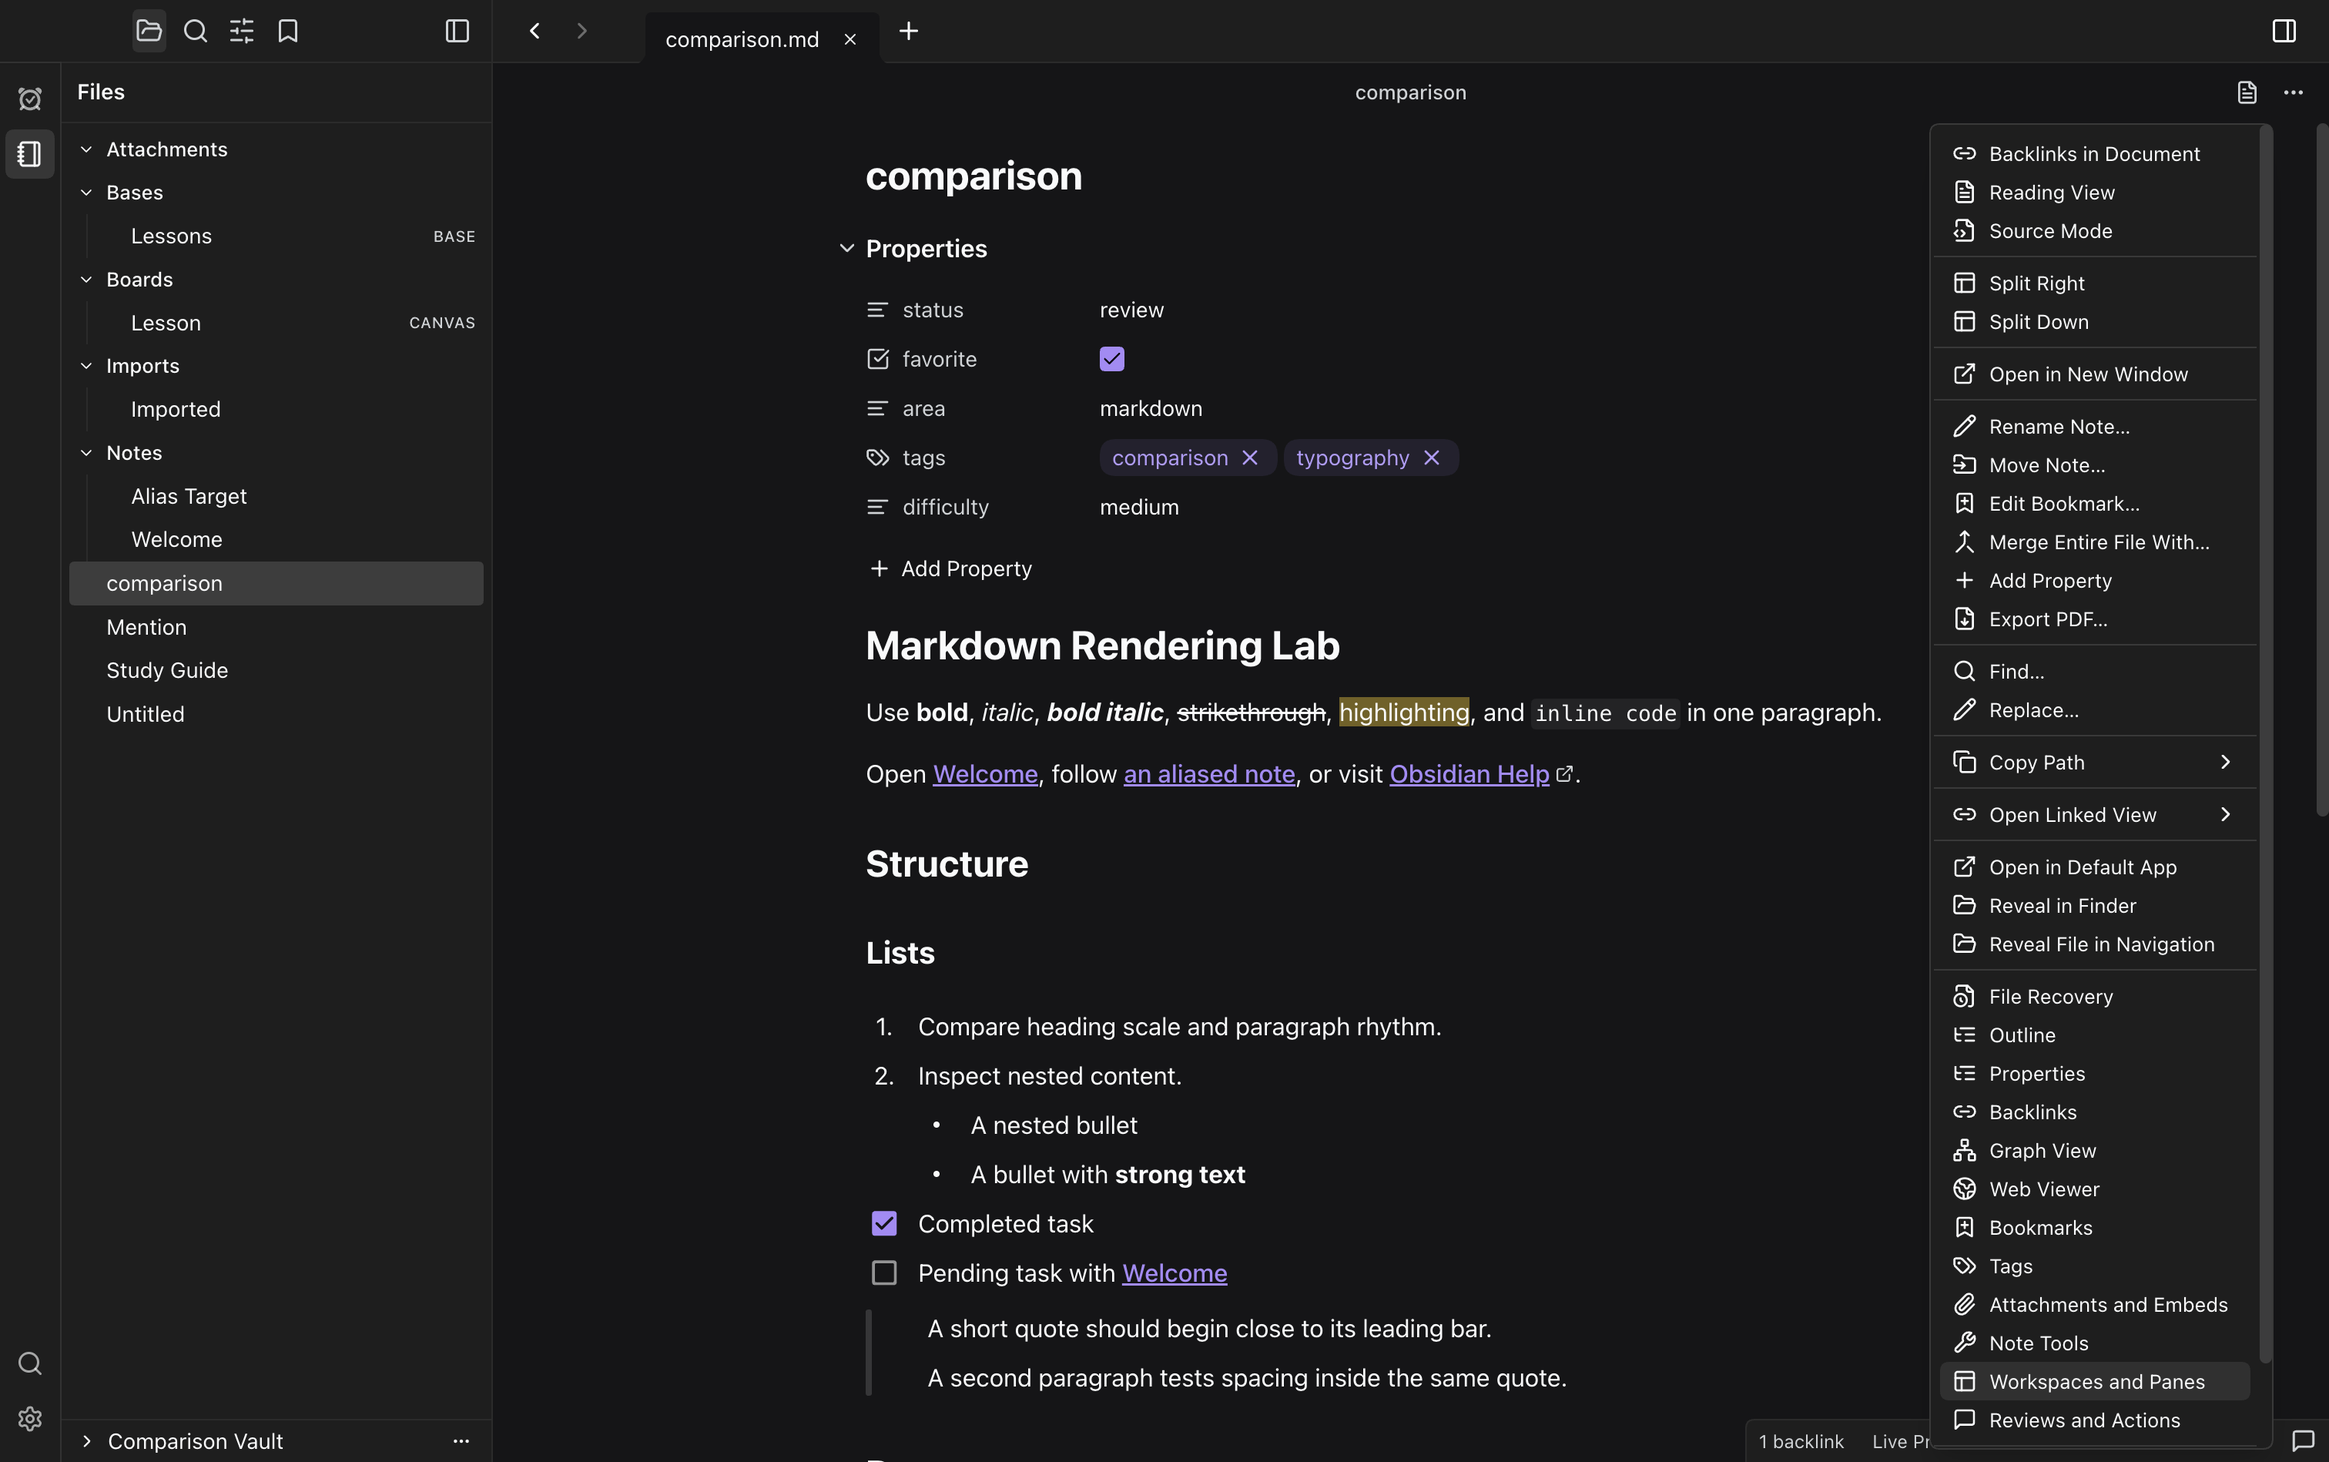
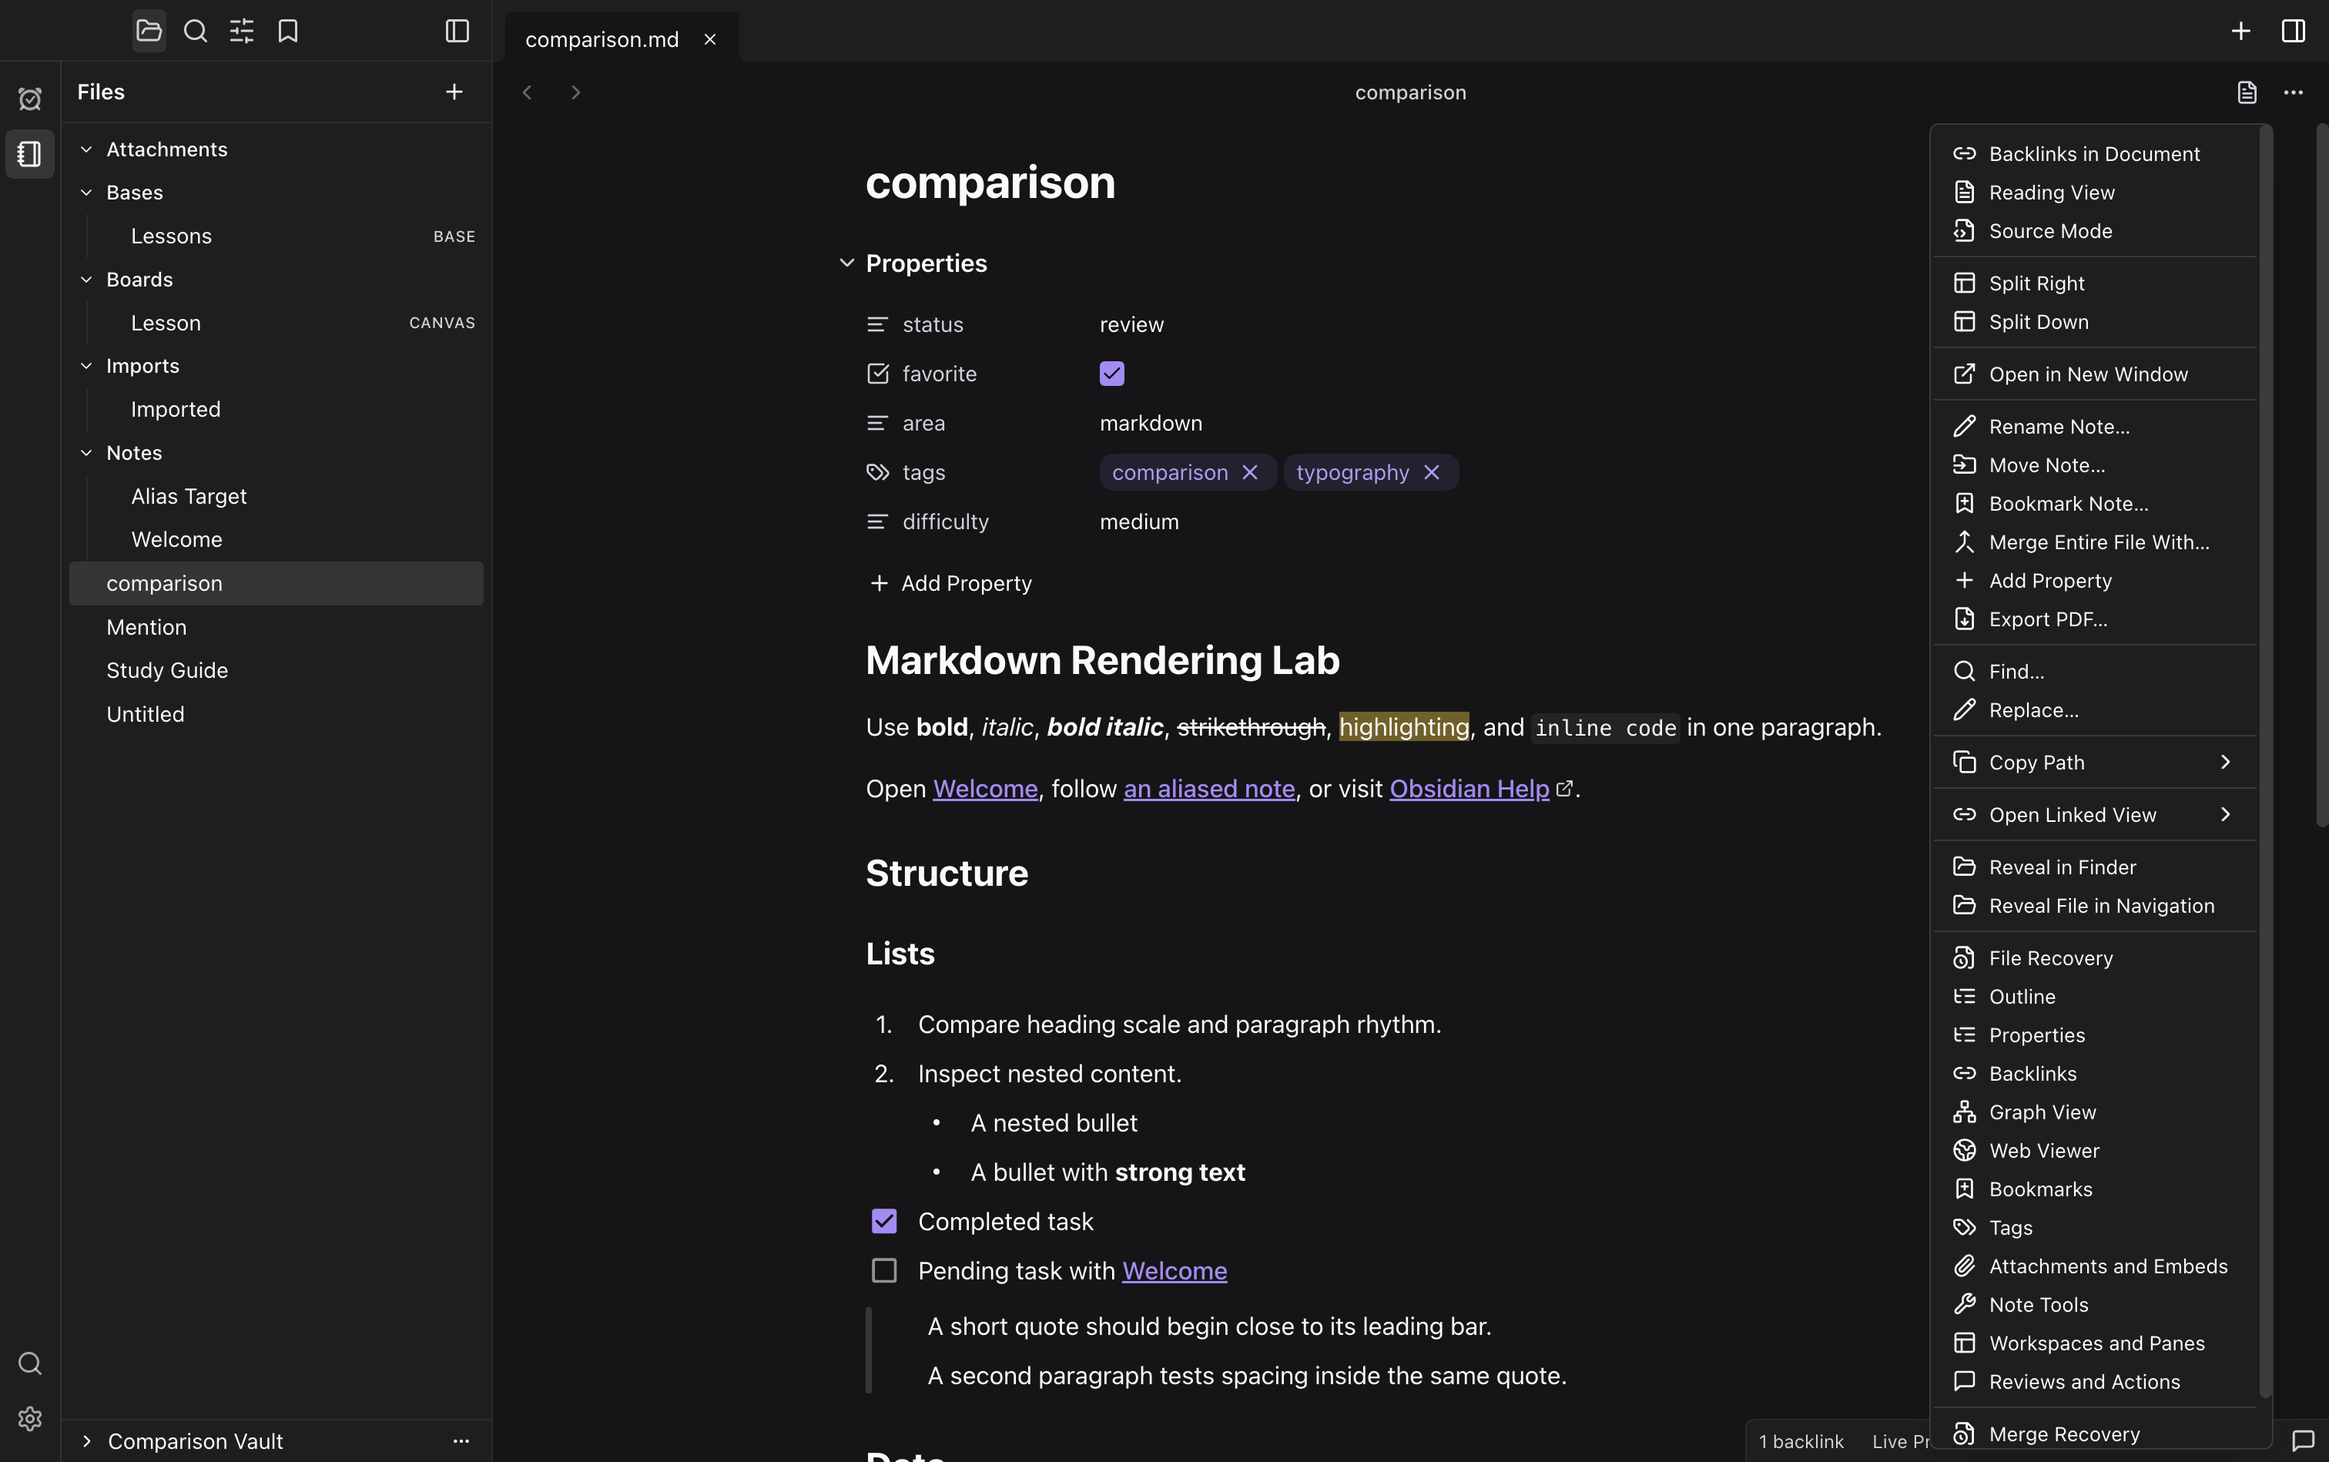
docs(tocktutor): refresh Surface 05 for the in-app note menu

diff --git a/.agents/uiux/tocktutor/tocktutor.html b/.agents/uiux/tocktutor/tocktutor.html
@@ -151,7 +151,7 @@
     <div class="header-inner">
       <p class="eyebrow">Visual Design Audit · 66 Captures</p>
       <h1>TockTutor and Obsidian</h1>
-      <p class="intro">TockTutor screenshots were refreshed from the source-built Desktop at <code>3c579a86</code> on September 24, 2026; 23 note-facing images were recaptured after the Live Preview correction at <code>81f533aa</code>; 21 Live Preview images were retaken with purple links and task checks, readable list numbers, and 16px checkbox glyphs at <code>02e96f0e</code>. The Main Workspace and Source Mode images were retaken from a source-built Desktop working tree with Back and Forward in the note header below the tabs. The new lower-note pair shows Data, Code and Notes, and Small Heading in both apps. Assistant and ordinary Web Viewer captures remain from the prior batch; the supplemental Reader View image was refreshed on October 1 with its article loaded and the corrected Live Preview paragraph visible. Earlier Obsidian 1.13.7 reference images are unchanged except for the focused Image Viewer, Image Resizing, and Imported Property Controls retakes recorded in the proof. Note-based surfaces use the shared <a href="comparison.md"><code>comparison.md</code></a> content. Older screenshots predate the filename change. The refreshed TockTutor note menu shows the current filename; attachments use <code>Notes/Welcome.md</code>, and Base and Canvas use the same <a href="../../../plugins/tocktutor/parity/fixtures/vault/">parity fixture files</a>. Search uses <code>Markdown</code> in both apps. The assistant pair uses empty conversations beside the same note, with Claudian 2.3.0 in Obsidian. Product-specific controls and catalogs remain genuine, not fabricated matches. See the <a href="content-alignment.md">capture proof and limitations</a>. Click an image for full resolution.</p>
+      <p class="intro">TockTutor screenshots were refreshed from the source-built Desktop at <code>3c579a86</code> on September 24, 2026; 23 note-facing images were recaptured after the Live Preview correction at <code>81f533aa</code>; 21 Live Preview images were retaken with purple links and task checks, readable list numbers, and 16px checkbox glyphs at <code>02e96f0e</code>. The Main Workspace and Source Mode images were retaken from a source-built Desktop working tree with Back and Forward in the note header below the tabs. The new lower-note pair shows Data, Code and Notes, and Small Heading in both apps. Assistant and ordinary Web Viewer captures remain from the prior batch; the supplemental Reader View image was refreshed on October 1 with its article loaded and the corrected Live Preview paragraph visible. Earlier Obsidian 1.13.7 reference images are unchanged except for the focused Image Viewer, Image Resizing, and Imported Property Controls retakes recorded in the proof. Note-based surfaces use the shared <a href="comparison.md"><code>comparison.md</code></a> content. Older screenshots predate the filename change. The October 1 TockTutor note menu shows the current filename without Open in Default App; attachments use <code>Notes/Welcome.md</code>, and Base and Canvas use the same <a href="../../../plugins/tocktutor/parity/fixtures/vault/">parity fixture files</a>. Search uses <code>Markdown</code> in both apps. The assistant pair uses empty conversations beside the same note, with Claudian 2.3.0 in Obsidian. Product-specific controls and catalogs remain genuine, not fabricated matches. See the <a href="content-alignment.md">capture proof and limitations</a>. Click an image for full resolution.</p>
       <p class="intro">September 29 additions: six source-built Desktop captures cover the image viewer, image resizing, Mermaid Reading and Live Preview, diagram editing, and imported property controls. These use separate <a href="migration-fixtures/Viewer.md">image-viewer</a>, <a href="migration-fixtures/Images.md">image-resizing</a>, <a href="migration-fixtures/Diagrams.md">diagram</a>, and <a href="migration-fixtures/Properties.md">property</a> fixtures; Image Viewer and Image Resizing pair the same Potala Palace photo; Diagram Editing and Imported Property Controls pair the same saved notes in TockTutor and installed Obsidian 1.13.7. The remaining two additions are TockTutor feature evidence, not matched Obsidian comparisons. See the <a href="../../../.beads/reports/2026-09-29-tocktutor-migration-review.md">migration review</a> and <a href="../../../.beads/reports/2026-09-30-tocktutor-image-alignment-and-diagram-reference.md">layout and diagram proof</a>, and <a href="../../../.beads/reports/2026-10-01-tocktutor-imported-properties-reference.md">imported property reference proof</a>. October 1 retake: Imported Property Controls now shows Properties beside the full-height note, with a fresh Obsidian comparison; the duplicate sidebar surface was removed. See the <a href="../../../.beads/reports/2026-10-01-tocktutor-imported-properties-retake.md">pair retake proof</a>.</p>
       <div class="capture-standard">1512 × 949 CSS pixels · 2× scale · 3024 × 1898 output · Built-in Dark Theme · No Active Skin</div>
       <div class="legend" aria-label="Comparison legend">
@@ -206,10 +206,10 @@
     </section>
 
     <section class="surface" id="note-actions">
-      <p class="section-number">Surface 05</p><h2>Note Actions Menu</h2><p class="section-note">Live Preview is the default editing style, not a menu choice. Reading View switches to reading; Source Mode toggles raw Markdown.</p>
-      <p class="fixture-proof"><strong>Capture Proof:</strong> The real TockTutor Desktop workspace opens <code>comparison.md</code> from the isolated Comparison Vault with the exact shared Markdown content and working note actions. Verified at 1512 × 949 CSS pixels and 2× scale, with the built-in dark theme, no active skin, and no renderer errors during capture. Obsidian remains the earlier reference with identical <code>comparison.md</code> content.</p>
+      <p class="section-number">Surface 05</p><h2>Note Actions Menu</h2><p class="section-note">Live Preview is the default editing style, not a menu choice. Reading View switches to reading; Source Mode toggles raw Markdown. Saved notes open in TockTutor; Open in Default App is no longer offered.</p>
+      <p class="fixture-proof"><strong>Capture Proof:</strong> Retaken October 1 from the existing Desktop build at <code>910a3bee</code>, without a rebuild or app-source changes. The isolated Comparison Vault opens the exact shared 1,324-byte <code>comparison.md</code> in Live Preview, with its corrected paragraph visible and Open in Default App absent from the real menu. Verified at 1512 × 949 CSS pixels and 2× scale, built-in dark, no root/body skin, and zero runtime errors. Obsidian remains the earlier unchanged reference with identical Markdown content. See the <a href="../../../.beads/reports/2026-10-01-tocktutor-note-menu-gallery.md">current capture proof</a>.</p>
       <div class="comparison">
-        <figure class="tocktutor"><figcaption><span class="caption-title">TockTutor · Note Actions</span><span class="badge">Current</span></figcaption><a class="screenshot-link" href="screenshots/tocktutor-note-actions-menu.png"><img src="screenshots/tocktutor-note-actions-menu.png" alt="TockTutor note actions menu with Reading View and Source Mode, without a Live Preview menu item"></a></figure>
+        <figure class="tocktutor"><figcaption><span class="caption-title">TockTutor · Note Actions</span><span class="badge">Current</span></figcaption><a class="screenshot-link" href="screenshots/tocktutor-note-actions-menu.png"><img src="screenshots/tocktutor-note-actions-menu.png" alt="TockTutor note actions menu with Reading View and Source Mode, without Live Preview or Open in Default App menu items"></a></figure>
         <figure class="obsidian"><figcaption><span class="caption-title">Obsidian · Note Actions</span><span class="badge">Earlier Reference</span></figcaption><a class="screenshot-link" href="screenshots/obsidian-note-actions.png"><img src="screenshots/obsidian-note-actions.png" alt="Obsidian note actions menu"></a></figure>
       </div>
     </section>
@@ -426,7 +426,7 @@
       </div>
     </section>
 
-    <p class="footer">All screenshots use 1512 × 949 CSS pixels at 2× scale. Historical comparisons retain their recorded provenance; the supplemental Reader View capture is current. Image Viewer, Image Resizing, Diagram Editing, and Imported Property Controls have same-content installed Obsidian references; the remaining two September 29 additions stay TockTutor-only feature evidence. Imported Property Controls was retaken on October 1 in both apps; the gallery ends at Surface 29. Closest Reference and Not Applicable labels do not imply missing product capability.</p>
+    <p class="footer">All screenshots use 1512 × 949 CSS pixels at 2× scale. Historical comparisons retain their recorded provenance; the Note Actions Menu and supplemental Reader View captures are current. Image Viewer, Image Resizing, Diagram Editing, and Imported Property Controls have same-content installed Obsidian references; the remaining two September 29 additions stay TockTutor-only feature evidence. Imported Property Controls was retaken on October 1 in both apps; the gallery ends at Surface 29. Closest Reference and Not Applicable labels do not imply missing product capability.</p>
   </main>
 </body>
 </html>

diff --git a/.beads/reports/2026-10-01-tocktutor-note-menu-gallery.md b/.beads/reports/2026-10-01-tocktutor-note-menu-gallery.md
@@ -1,0 +1,15 @@
+# Surface 05 Note Actions Screenshot
+
+Issue: `tockteam-weg4`. Updated only `tocktutor-note-actions-menu.png` and its scoped gallery/provenance text after reading the complete `tocktutor.html` capture runbook and Surface 05. All 72 other pictures, including every Obsidian reference, are preserved.
+
[1 lines of base64/hex data omitted]
+
+App-scoped Playwright over guarded Electron/CDP verifies `/tocktutor/comparison.md`, selected note, Live Preview, the exact corrected paragraph, 32 real menu entries without **Open in Default App** or a **Live Preview** item, other retained actions, enabled Rename, and zero unsaved marker. No note action was invoked beyond selecting the note and opening the menu. Outside-app certification remains cancelled, not verified.
+
[1 lines of base64/hex data omitted]
+
+Private harness checks were corrected for hidden inline-source text and Rename's accessible name. The exact paragraph excludes only source nodes verified `display:none`; no actual page/visible text/style was altered. No rejected image was published and no app fix was attempted.
+
+Owned Desktop launch `9bd36f9c-1253-4143-af85-35be508692ab`, root **57588**, stopped with all **16** app/runtime PIDs absent. Playwright detached. Only the explicitly allowlisted PNG and three metadata files are published through checked same-filesystem replacements with rollback; original metadata is preserved except this surface/current proof. All three protected paths and frozen build artifacts remain unchanged.
+
+Verification command: `node --test tests/tocktutor-gallery.test.ts tests/tocktutor-content-alignment.test.ts` — **16/16 passed**; scoped `git diff --check` passed. Gallery inventory remains **29 surfaces / 66 unique displayed images / 73 PNG files**. A separate guarded gallery browser at the same exact geometry decoded both Surface 05 pictures at native size, verified the current caption/proof, and recorded zero errors/failed requests. Gallery root/server **60427** and all four PIDs stopped; port **49419** closed; no Playwright sessions remain. Final gate and guarded gallery decode/cleanup receipt is in `2026-10-01-tocktutor-note-menu-gallery.json`.

diff --git a/.agents/uiux/tocktutor/content-alignment.md b/.agents/uiux/tocktutor/content-alignment.md
@@ -1,5 +1,11 @@
 # TockTutor and Obsidian Content Alignment
 
+## Current Note Actions Menu — 2026-10-01
+
+Updated only Surface 05's `tocktutor-note-actions-menu.png` after the user-approved removal of Open in Default App. All 72 other screenshots, including all 33 Obsidian references, remain byte-identical. The real isolated Desktop opens the unchanged 1,324-byte `comparison.md` in Live Preview; its corrected first paragraph is visible, the real 32-entry menu omits the outside-app option, and normal note/native actions remain. Outside-app certification is cancelled, not claimed.
+
+Reused the frozen existing build from `910a3bee`, checked out at `543d6395`, without source edits, build, or staging. A peer may edit unbuilt source independently; `noteActionsRefresh.builtArtifactHashes` fingerprints the actual frozen artifacts rather than claiming its new source was captured. The PNG is 3024 × 1898 from 1512 × 949 CSS pixels at DPR 2, explicit dark/no root or body skin despite simulated light system appearance. The paragraph check excludes only proven `display:none` inline-source nodes; no visible content or DOM styles were changed. Fresh style measurements match the recorded link/task colors and checkbox dimensions. Runtime errors are zero, with two startup warnings. Owned root 57588 and all 16 recorded app/runtime PIDs stopped; Playwright detached. The old `menuRefresh` retains its historical filename/reference decision. See [the current menu gallery report](../../../.beads/reports/2026-10-01-tocktutor-note-menu-gallery.md).
+
 ## Current Sidebar and Reader Captures — 2026-10-01
 
 Updated only `tocktutor-imported-properties.png` and `tocktutor-web-viewer-reader.png`; all 71 other screenshots, including every Obsidian reference, remain unchanged. Surface 29 now uses the unaltered, already verified Properties screenshot from `tockteam-ph35` at `1e3174b3`, with the compact icon-only toggle, all eight imported rows, the unchanged 447-byte saved note/type registry, and 470-pixel sidebar. No additional Properties or Obsidian launch was needed.
